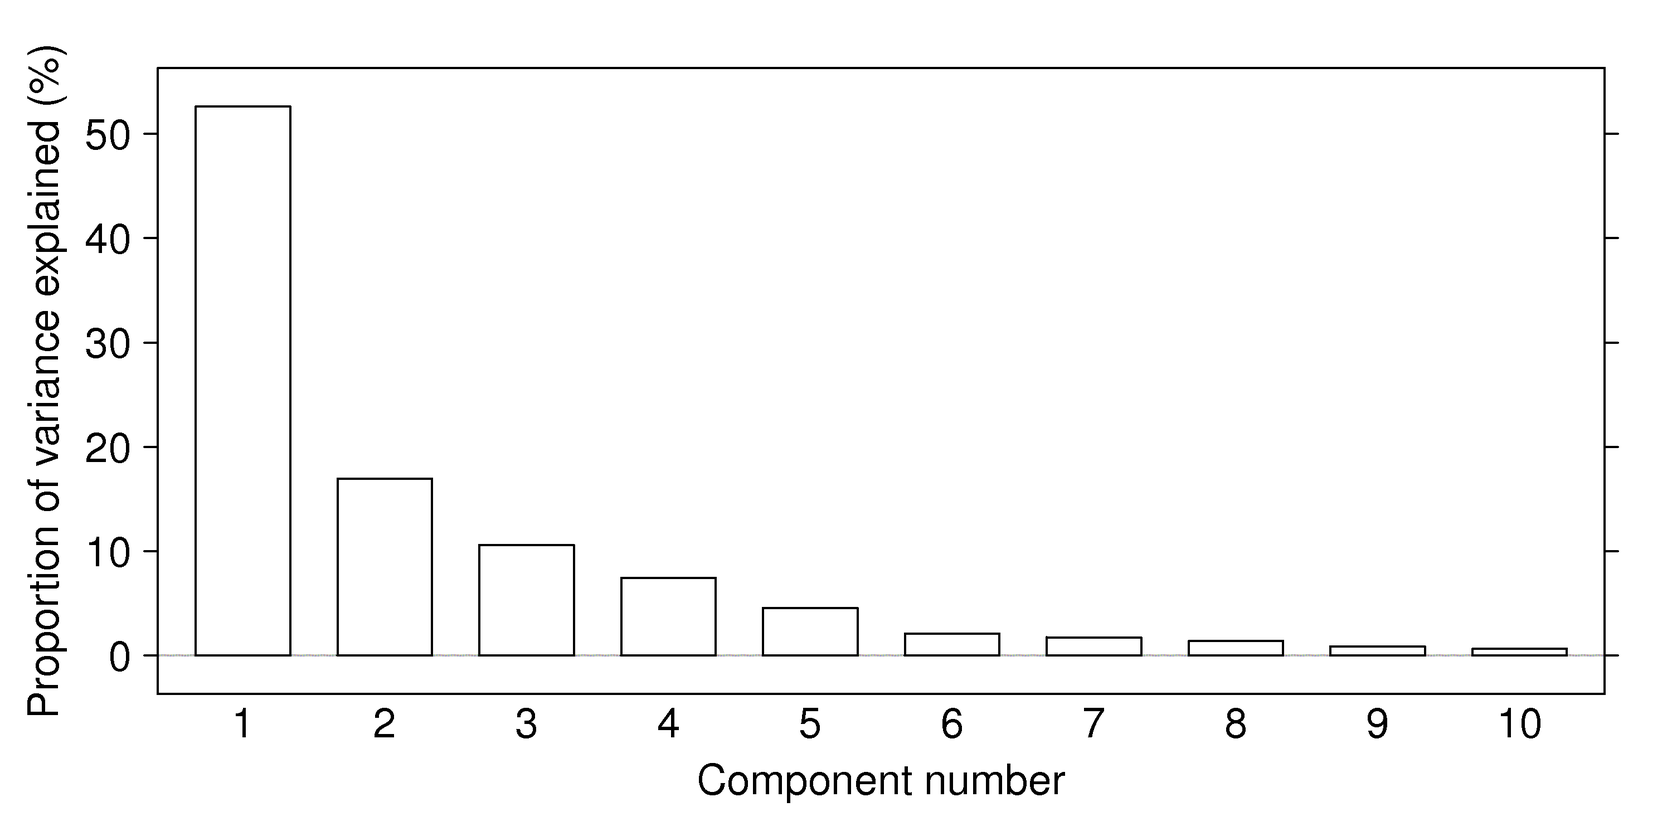
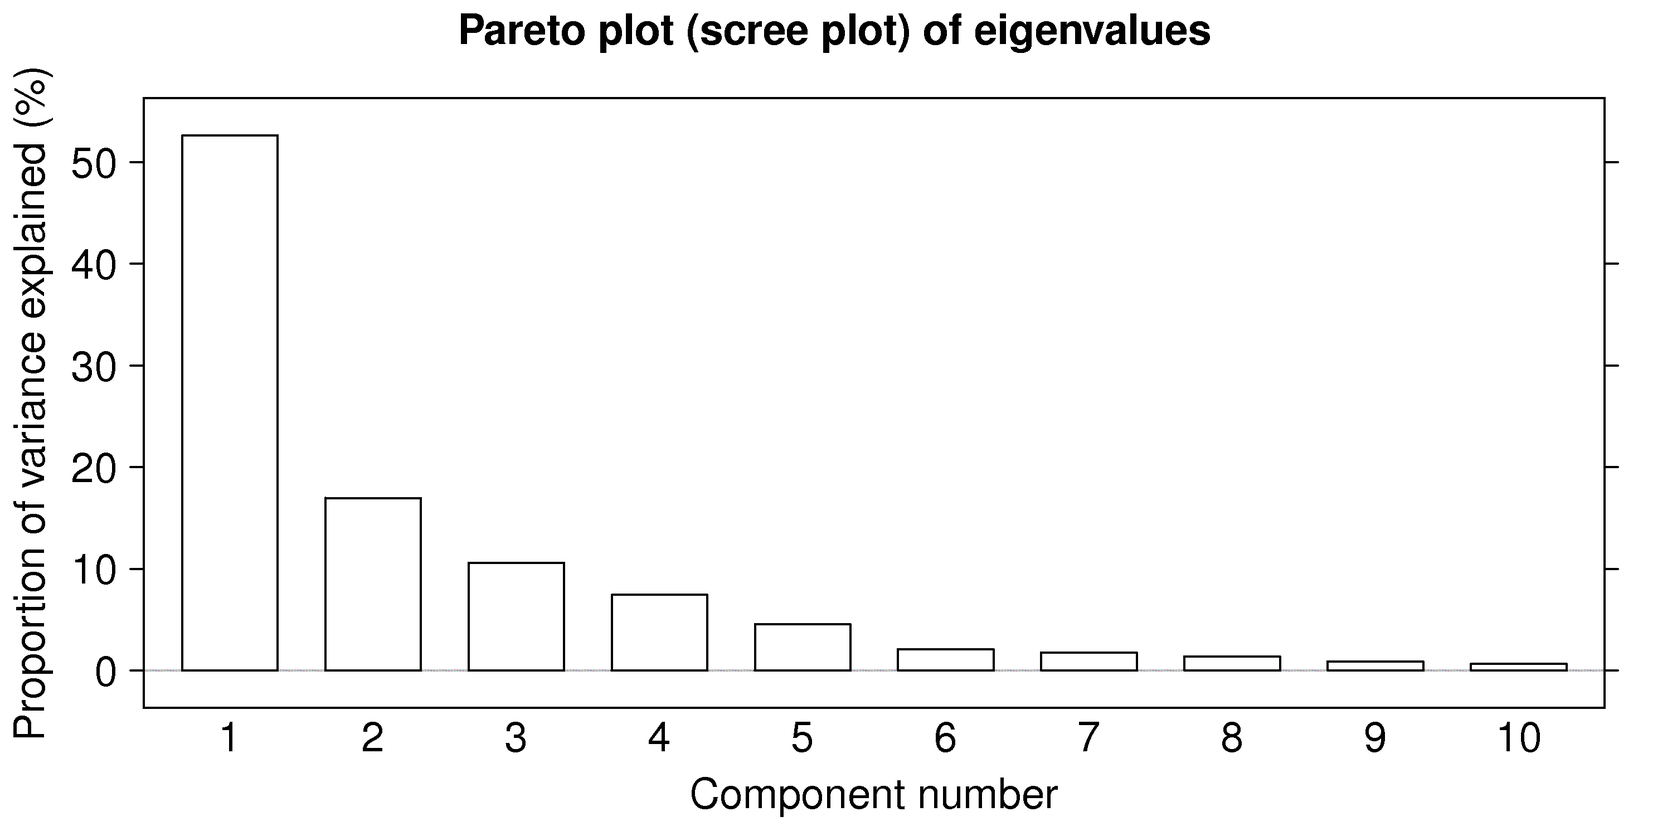
More PCA updates

diff --git a/latent-variable-modelling/principal-component-analysis.rst b/latent-variable-modelling/principal-component-analysis.rst
@@ -1,6 +1,11 @@
 .. Next sections must address:
 
 	Which variables should you use, and how many observations do you require?
+	
+	Add a part about the biplot:
+	
+	*	Gabriel, K. R. (1971). The biplot graphical display of matrices with applications to principal component analysis. Biometrika, 58, 453–467.
+	*	Gabriel, K. R. and Odoroff, C. L. (1990). Biplots in biomedical research. Statistics in Medicine, 9, 469–485.
 
 References and readings
 ========================
@@ -491,8 +496,6 @@ Notice how the model spreads the weights out evenly over all the correlated vari
 
 Finally, one way to locate unimportant variables in the model is by finding which variables which have small weights in all components.  These variables can generally be removed, as they show no correlation to any of the components or with other variables.
 
-
-
 Interpreting loadings and scores together
 ==========================================
 
@@ -690,40 +693,42 @@ The variance of a general matrix, :math:`\mathbf{G}`, is taken as the sum of squ
 Example: spectral data
 ====================================
 
-A data set, `available on the book website <http://datasets.connectmv.com/info/tablet-spectral-data>`_, contains data on 460 tablets, measured at 650 different wavelengths.
+A data set, `available on the dataset website <http://datasets.connectmv.com/info/tablet-spectra>`_, contains data on 460 tablets, measured at 650 different wavelengths.
 
-.. figure:: images/pharma-spectra.png
+.. image:: images/pharma-spectra.png
 	:alt:	images/pharma-spectra.py
 	:scale: 95
 	:width: 750px
 	:align: center
 	
-The following R code will calculate principal components for this data:
+This R code will calculate principal components for this data:
 
 .. code-block:: s
 
-	> spectra <- read.csv('tablet-spectra.csv', header=FALSE)
-	> model.pca <- prcomp(spectra, scale=TRUE)
-	> summary(model.pca)
+	# Read large data file
+	spectra <- read.csv('http://datasets.connectmv.com/file/tablet-spectra.csv', 
+	                       header=FALSE)
+	model.pca <- prcomp(spectra[,2:651], scale=TRUE)
+	summary(model.pca)
 	Importance of components:
 	                          PC1    PC2    PC3    PC4 ... 
 	Standard deviation     21.883 10.975 3.6008 3.2708 ...
 	Proportion of Variance  0.737  0.185 0.0199 0.0165 ...
 	Cumulative Proportion   0.737  0.922 0.9420 0.9585
 
-These are the :math:`R^2_a` values: the first component explains 73.7% of the variability in |X|, the second explains an additional 18.5%, and the third component explains 1.99%.  These three components together explain 94.2% of all the variation in X.  This means we have reduced |X| from a :math:`460 \times 650` matrix to the :math:`460 \times 3` matrix of scores, |T|, and the :math:`650 \times 3` matrix of loadings, |P|.  
+T :math:`R^2_a` (``Cumulative Proportion``) values shows the first component explains 73.7% of the variability in |X|, the second explains an additional 18.5% for a cumulative total of 94.2%, and the third component explains an additional 1.99%.  These three components together explain 94.2% of all the variation in |X|.  This means we have reduced |X| from a :math:`460 \times 650` matrix to a :math:`460 \times 3` matrix of scores, |T|, and a :math:`650 \times 3` matrix of loadings, |P|.  This is a large reduction in data size, with a minimal loss of information.
 
-Let's visually show what the :math:`R^2` values are for each column.  Shown below are these values for the first 3 components.  The first component (green thin line) explains the certain regions of the spectra very well, particularly the region around 1100nm.  Wavelengths beyond 1800 nm are not well explained at all.  The second component is primarily responsible for explaining additional variability in the 700 to 1100nm region.  The third component only seems to explain the additional variability from 1700 to 1800nm.  Fitting a fourth component is only going to start fitting the noisy regions of the spectrum.
+Let's visually show what the :math:`R^2` values are for each column.  Shown below are these values for the first 3 components.  The first component (green, thin line) explains certain regions of the spectra very well, particularly the region around 1100nm.  Wavelengths beyond 1800 nm are not well explained at all.  The second component is primarily responsible for explaining additional variability in the 700 to 1100nm region.  The third component only seems to explain the additional variability from 1700 to 1800nm.  Fitting a fourth component is only going to start fitting the noisy regions of the spectrum on the very right. For these data we could use 2 components for most applications, or perhaps 3 if the region between 1700 and 1800nm was also important.
 
-.. figure:: images/spectral-data-R2-per-variable.png
+.. image:: images/spectral-data-R2-per-variable.png
 	:alt:	images/spectral-data.R
 	:scale: 80
 	:width: 750px
 	:align: center
 
-Finally, we can show the SPE plot for each observation. These SPE values for each tablet become smaller and smaller as each successive component is added. There don't appear to be any major outliers off the model's plane.
+Finally, we can show the SPE plot for each observation. SPE values for each tablet become smaller and smaller as each successive component is added.  Since each new component explains additional variance, the size of SPE must decrease. There don't appear to be any major outliers off the model's plane after the first component.
 
-.. figure:: images/spectral-data-SPE-per-tablet.png
+.. image:: images/spectral-data-SPE-per-tablet.png
 	:alt:	images/spectral-data.R
 	:scale: 80
 	:width: 750px
@@ -731,7 +736,7 @@ Finally, we can show the SPE plot for each observation. These SPE values for eac
 
 .. _LVM-Hotellings-T2:
 
-Hotelling's |T2|
+Hotelling's :math:`T^2`
 ====================================
 
 The final quantity from a PCA model that we need to consider is called Hotelling's |T2| value.  Some PCA models will have many components, :math:`A`, so an initial screening of these components using score scatterplots will require reviewing :math:`A(A-1)/2` scatterplots.  The |T2| value for the :math:`i^\text{th}` observation is defined as:
@@ -790,25 +795,27 @@ where the :math:`s_a^2` values are constants, and are the variances of each comp
 Preprocessing the data before building a model
 ==================================================
 
-The previous sections of this chapter considered the interpretation of a PCA latent variable model.  From this section onwards we return to filling important gaps in our knowledge:  
+The previous sections of this chapter considered the interpretation of a PCA latent variable model.  From this section onwards we return to filling important gaps in our knowledge.  There are 3 major steps to building any latent variable models:
 
 	#.	Preprocessing the data 
 	#.	Building the latent variable model in the :ref:`algorithms section <LVM-algorithms-for-PCA>`
-	#.	:ref:`Testing the model <LVM_testing_PCA_models>`, including testing for the number of components to use
+	#.	:ref:`Testing the model <LVM_testing_PCA_models>`, including testing for the number of components to use.
+	
+We discuss the first step in this section, and the next two steps after that.
 
-There are a number of possibilities for data preprocessing.  We mainly discuss centering and scaling in this section, but outline a few other tools first. These steps are usually univariate, i.e. they are applied separately to each column in the raw data matrix |Xraw|.  We call the matrix of preprocessed data |X|, this is the matrix that is then presented to the algorithm to build the PCA model.  PCA algorithms seldom work on the raw data.
+There are a number of possibilities for data preprocessing.  We mainly discuss centering and scaling in this section, but outline a few other tools first. These steps are usually univariate, i.e. they are applied separately to each column in the raw data matrix |Xraw|.  We call the matrix of preprocessed data |X|, this is the matrix that is then presented to the algorithm to build the latent variable model.  Latent variable algorithms seldom work on the raw data.
 
 **Transformations**
 
-	The columns in |Xraw| can be transformed: log, square-root and various powers (-1, -0.5, 0.5, 2) are popular options.  These are used to reduce the effect of extreme measurements (e.g. log transforms), or because the transformed variable is known to be more correlated with the other variables.  An example of this is in a distillation column: the inverse temperature is known to more correlated to the vapour pressure, which we know from first-principles modelling.  Using the untransformed variable will lead to an adequate model, but the transformed variable can lead to a better model.
+	The columns in |Xraw| can be transformed: log, square-root and various powers (-1, -0.5, 0.5, 2) are popular options.  These are used to reduce the effect of extreme measurements (e.g. log transforms), or because the transformed variable is known to be more correlated with the other variables.  An example of this is in a distillation column: the inverse temperature is known to more correlated to the vapour pressure, which we know from first-principles modelling.  Using the untransformed variable will lead to an adequate model, but the transformed variable, e.g. using the inverse temperature, can lead to a better model.
 	
-	The tools we considered at the start of this course on visualization and univariate distributions (histograms) can help assess which variables require transformation.  But one's knowledge of the system is often the most useful guide for knowing which transformations to apply.
+	The tools we considered earlier on visualization and univariate distributions (histograms) can help assess which variables require transformation.  But one's knowledge of the system is the most useful guide for knowing which transformations to apply. Note: latent variable modes do not require each column in |Xraw| to be normally distributed: any type of quantitative variable may be used.
 
 **Expanding the X-matrix**
 
-	Additional columns can be added to the |X|-matrix.   This is frequently done in engineering systems where we can augment |Xraw| with columns containing heat, mass, and energy balances.  It might be useful to add certain dimensionless numbers or other quantities that can be derived from the raw data.  
+	Additional columns can and should be added to the |X|-matrix.   This is frequently done in engineering systems where we can augment |Xraw| with columns containing heat, mass, and energy balances.  It might be useful to add certain dimensionless numbers or other quantities that can be derived from the raw data.  
 
-	Another step that is applied, usually to experimental data, is to add square and cross terms. For example, if 3 of the columns in |Xraw| were from a factorial designed experiment with center points, then augment |Xraw| with columns containing interaction terms: :math:`x_1x_2, x_1x_3, x_2x_3`.  If face points or axial points (such as from a central composite design) were used, then also add the square terms to estimate the quadratic effects: :math:`x_1^2, x_2^2, x_3^2`.  When studying experimental data with PCA (or PLS), also add columns related to disturbance variables and blocking variables - you won't know if they are important if they are not included.
+	Another step that is applied, usually to experimental data, is to add square and cross terms. For example, if 3 of the columns in |Xraw| were from a factorial designed experiment with center points, then augment |Xraw| with columns containing interaction terms: :math:`x_1x_2, \,\, x_1x_3, \,\, x_2x_3`.  If face points or axial points (such as from a central composite design) were used, then also add the square terms to estimate the quadratic effects: :math:`x_1^2, \,\, x_2^2, \,\, x_3^2`.  When studying experimental data with latent variable methods (PCA or PLS), also add columns related to measured disturbance variables, often called :index:`covariates`, and :index:`blocking` variables - you won't know if they are important if they are not included.
 
 	The *general rule* is: add as many columns into |Xraw| as possible for the initial analysis.  You can always prune out the columns later on if they are shown to be uninformative.
 
@@ -824,23 +831,25 @@ There are a number of possibilities for data preprocessing.  We mainly discuss c
 
 	Users often go through a phase of pruning outliers prior to building a latent variable model.   There are often *uninteresting* outliers, for example when a temperature sensor goes off-line and provides a default reading of 0.0 instead of its usual values in the range of 300 to 400K.   The automated tools used to do this are known by names such as trimming and winsorizing.  These tools remove the upper and lower :math:`\alpha` percent of the column's tails on the histogram. But care should be taken with these automated approaches, since the most interesting observations are often in the outliers. 
 
-	The course of action when removing outliers is to always mark their values as missing just for that variable in |Xraw|, rather than removing the entire row in |Xraw|.  We do this because we can use the algorithms to calculate the PCA model when missing data are present within a row.
+	The course of action when removing outliers is to always mark their values as missing just for that variable in |Xraw|, rather than removing the entire row in |Xraw|.  We do this because we can use the algorithms to calculate the latent variable model when missing data are present within a row.
 
 **Centering**
 
-	Centering moves the coordinate system to a new reference point, usually the origin of the coordinate system in :math:`K` variables (i.e. in :math:`K`-dimensional space).  Mean centering is effective and commonly used: after mean centering the mean of every column in |Xraw| will be exactly 0.0.
+	:index:`Centering` moves the coordinate system to a new reference point, usually the origin of the coordinate system in :math:`K` variables (i.e. in :math:`K`-dimensional space).  Mean centering is effective and commonly used: after mean centering the mean of every column in |Xraw| will be exactly 0.0. An example of mean centering was given in the :ref:`food texture example <LVM_food_texture_example>`.
 
-	But as we learned in the section on :ref:`univariate data analysis <SECTION-univariate-review>`, the mean has a low resistance to outliers: any large outlier will distort the value of the mean.  So users often resort to trimming their data and then mean centering.  In this regard, centering each column around its median is a better choice.  It is my preference to do this as it avoids the trimming step, and simultaneously highlights the outliers.
+	As we learned in the section on :ref:`univariate data analysis <SECTION-univariate-review>`, the mean has a low resistance to outliers: any large outlier will distort the value of the mean.  So users often resort to trimming their data and then mean centering.  In this regard, centering each column around its median is a better choice.  We recommend :index:`median centering <single: centering, about median>` as it avoids the trimming step, and simultaneously highlights any outliers.
+	
+	In the paper by `Bro and Smilde on centering and scaling <http://dx.doi.org/10.1002/cem.773>`_ they show how centering is far more influential on the model than scaling.  Centering can be seen as adding a new principal component to the model, while scaling has much less of an effect.  
 	
 **Scaling**
 
-	Scaling is an important important step in latent variable modelling. Scaling can be seen as a way of assigning weights, or relative importance, to each column in |Xraw|.  If we don't know much about our data, then it is common to assign an equal weight to each column.  We can do this by simply dividing each column by its standard deviation.  After this scaling each column will have variance (and standard deviation) of exactly 1.0.  This allows each column an equal opportunity of contributing to the model.
+	:index:`Scaling` is an important important step in latent variable modelling. Scaling can be seen as a way of assigning weights, or relative importance, to each column in |Xraw|.  If we don't know much about our data, then it is common to assign an equal weight to each column.  We can do this by simply dividing each column by its standard deviation.  After this scaling each column will have variance (and standard deviation) of exactly 1.0.  This allows each column an equal opportunity of contributing to the model.
 
-	This sort of scaling is called unit-variance scaling.  When combined with mean centering you will see the terminology that the data have been *autoscaled*.  
+	This sort of scaling is called unit-variance scaling.  When combined with mean centering you will see the terminology that the data have been :index:`autoscaled`.  
 
-	Imagine a variable that is mostly constant, just noise.  It will have a small standard deviation.  When dividing by the standard deviation we artificially inflate its variance to the level of the other, truly-varying variables.  These noisy, uninformative variables can be removed from |Xraw|, or they can simply be multiplied by a smaller weight, so that their variance after preprocessing is less than 1.0. 
+	Imagine a variable that is mostly constant, just noise.  It will have a small standard deviation.  When dividing by the standard deviation we artificially inflate its variance to the level of the other, truly-varying variables.  These noisy, uninformative variables can be removed from |Xraw|, or they can simply be multiplied by a smaller weight, so that their variance after preprocessing is less than 1.0.  Such variables will also have small loading coefficients in all components, so they will be discovered during model investigation, if not sooner.
 
-	In the paper by `Bro and Smilde on centering and scaling <http://dx.doi.org/10.1002/cem.773>`_ they show how centering is far more influential on the model than scaling.  Centering can be seen as adding a new principal component to the model, while scaling has much less of an effect.  Once could use the median absolute deviation (MAD) instead of the standard deviation to scale the columns, but it most cases, any approximate scaling vector will work adequately.
+	One could use the median absolute deviation (MAD) instead of the standard deviation to scale the columns, but it most cases, any approximate scaling vector will work adequately (see the Bro and Smilde paper referenced earlier).
 
 
 .. _LVM-algorithms-for-PCA:
@@ -848,7 +857,7 @@ There are a number of possibilities for data preprocessing.  We mainly discuss c
 Algorithms to build a PCA model
 ====================================
 
-The different algorithms used to build a PCA model provide a different insight into the model's structure and how to interpret it.  These algorithms are a reflection of how PCA has been used in different disciplines: PCA is called by different names in each areas.
+The different algorithms used to build a PCA model provide a different insight into the model's structure and how to interpret it.  These algorithms are a reflection of how PCA has been used in different disciplines: PCA is called by different names in each area.
 
 .. _LVM-eigenvalue-decomposition:
 
@@ -863,7 +872,7 @@ Recall that the latent variable directions (the loading vectors) were oriented s
 	  \max        \quad & \phi = \mathbf{t}'_1 \mathbf{t}_1 = \mathbf{p}'_1\mathbf{X}' \mathbf{X} \mathbf{p}_1 \\
 	  \text{s.t.} \quad &  \mathbf{p}'_1 \mathbf{p}_1 = 1
 
-This is equivalent to :math:`\max \quad \phi = \mathbf{p}'_1 \mathbf{X}' \mathbf{X} \mathbf{p}_1 - \lambda \left(\mathbf{p}'_1 \mathbf{p}_1 - 1\right)`, because we can move the constraint into the objective function with a Lagrange multiplier, :math:`\lambda_1`.
+This is equivalent to :math:`\max \,\, \phi = \mathbf{p}'_1 \mathbf{X}' \mathbf{X} \mathbf{p}_1 - \lambda \left(\mathbf{p}'_1 \mathbf{p}_1 - 1\right)`, because we can move the constraint into the objective function with a Lagrange multiplier, :math:`\lambda_1`.
 
 The maximum value must occur when the partial derivatives with respect to :math:`\mathbf{p}_1`, our search variable, are zero:
 
@@ -875,22 +884,29 @@ The maximum value must occur when the partial derivatives with respect to :math:
 
 which is just the eigenvalue equation, indicating that :math:`\mathbf{p}_1` is the eigenvector of :math:`\mathbf{X}' \mathbf{X}` and :math:`\lambda_1` is the eigenvalue. One can show that :math:`\lambda_1 = \mathbf{t}'_1 \mathbf{t}_1`, which is proportional to the variance of the first component.
 
-In a similar manner we can calculate the second eigenvalue, but this time we add the additional constraint that :math:`\mathbf{p}_1 \perp \mathbf{p}_2`.  This eventually leads to :math:`\mathbf{X}' \mathbf{X}\mathbf{p}_2 = \lambda_2 \mathbf{p}_2`.  
+In a similar manner we can calculate the second eigenvalue, but this time we add the additional constraint that :math:`\mathbf{p}_1 \perp \mathbf{p}_2`.  Writing out this objective function and taking partial derivatives leads to showing that :math:`\mathbf{X}' \mathbf{X}\mathbf{p}_2 = \lambda_2 \mathbf{p}_2`.  
 
 From this we learn that:
 
-	* The loadings are the eigenvalues of :math:`\mathbf{X}'\mathbf{X}`.
-	* Sorting the eigenvalues in order from largest to smallest gives the order of the corresponding eigenvectors, the loadings.
-	* We know from the theory of eigenvalues that if there are distinct eigenvalues, then their eigenvectors are linearly independent (orthogonal).
-	* We also know the eigenvalues of :math:`\mathbf{X}'\mathbf{X}` must be real values and positive; this matches with the interpretation that the eigenvalues are proportional to the variance of each score vector.
-	* Also, the sum of the eigenvalues must add up to sum of the diagonal entries of :math:`\mathbf{X}'\mathbf{X}`, which represents of the total variance of the :math:`\mathbf{X}` matrix, if all eigenvectors are extracted.
-	  So plotting the eigenvalues is equivalent to showing the proportion of variance explained in :math:`\mathbf{X}`.  This is not necessarily a good way to judge the number of components to use, but it is a rough guide.  Use a Pareto plot of the eigenvalues (though in the context of eigenvalue problems, this plot is called a Scree plot).
+	*	The loadings are the eigenvectors of :math:`\mathbf{X}'\mathbf{X}`.
+	
+	*	Sorting the eigenvalues in order from largest to smallest gives the order of the corresponding eigenvectors, the loadings.
+	
+	*	We know from the theory of eigenvalues that if there are distinct eigenvalues, then their eigenvectors are linearly independent (orthogonal).
+	
+	*	We also know the eigenvalues of :math:`\mathbf{X}'\mathbf{X}` must be real values and positive; this matches with the interpretation that the eigenvalues are proportional to the variance of each score vector.
+	
+	*	Also, the sum of the eigenvalues must add up to sum of the diagonal entries of :math:`\mathbf{X}'\mathbf{X}`, which represents of the total variance of the :math:`\mathbf{X}` matrix, if all eigenvectors are extracted. So plotting the eigenvalues is equivalent to showing the proportion of variance explained in :math:`\mathbf{X}` by each component.  This is not necessarily a good way to judge the number of components to use, but it is a rough guide: use a Pareto plot of the eigenvalues (though in the context of eigenvalue problems, this plot is called a :index:`scree plot`).
 
-		.. figure:: images/eigenvalue-scree-plot.png
+		.. image:: images/eigenvalue-scree-plot.png
 			:alt:	images/eigenvalue-scree-plot.R
 			:align: center
 			:scale: 70
 			:width: 700px
+
+..	Good references for scree plots: 
+..		Mardia, K. V., J. T. Kent and J. M. Bibby (1979). Multivariate Analysis, London: Academic Press.
+..		Venables, W. N. and B. D. Ripley (2002). Modern Applied Statistics with S, Springer-Verlag.
 
 The general approach to using the eigenvalue decomposition would be:
 

diff --git a/latent-variable-modelling/applications-of-latent-variable-models.rst b/latent-variable-modelling/applications-of-latent-variable-models.rst
@@ -491,6 +491,9 @@ Please exclude the 3 last columns (``YF``, ``YS`` and ``YC``) for all the PCA mo
 Modelling time series data with latent variables models
 ========================================================================
 
+.. NOTE: there is a placeholder for lagging in the PCA section
+.. NOTE: I think the illustration for lagging is incorrect.
+
 This section provides some points regarding analysis of time series data using latent variable methods.
 
 Consider first what we mean by time series data.  Any engineering system can be modelled as an unknown box with inputs and outputs.  The vector of system inputs, given by :math:`\mathbf{x}(t)`, leads to a response in one or more outputs, :math:`\mathbf{y}(t)`.  The aim of this system is to learn more about the process using the measured inputs and outputs.  The branch of statistics that deals rigorously with these sort of models is called **time series analysis**.  Time series models are widely used in engineering and economics for forecasting and control of complex systems.  Time series modelling also addresses issues of correct experimental design to adequately create process inputs the excite (perturb) the process output.
